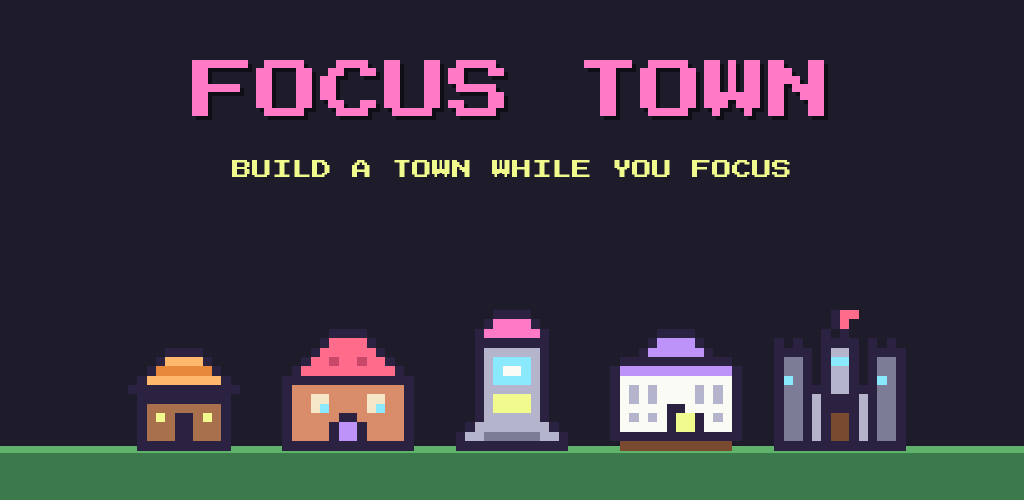
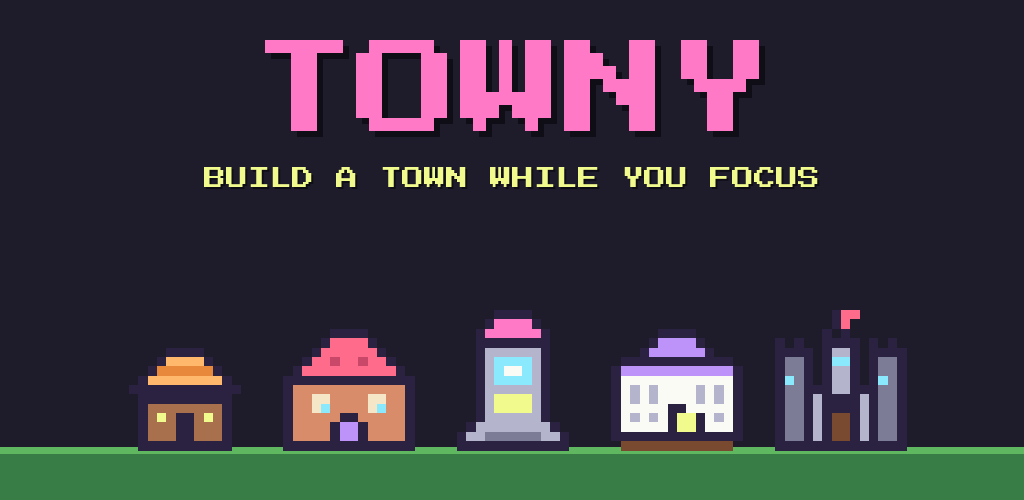
Rename the app to Towny
App name, screen title, notifications, share text, deep link scheme (towny://),
public pages, store sheet and feature graphic now use Towny. Bundle id, EAS slug
and storage keys are unchanged. Site URLs point to the renamed GitHub Pages path.

diff --git a/docs/privacy.html b/docs/privacy.html
@@ -1,5 +1,5 @@
 <!doctype html><html lang="en"><head><meta charset="utf-8"><meta name="viewport" content="width=device-width,initial-scale=1">
-<title>Privacy Policy - Focus Town</title><style>
+<title>Privacy Policy - Towny</title><style>
 :root{--bg:#1e1c2a;--panel:#2a2740;--text:#f8f8f2;--dim:#a9a5c4;--accent:#ff79c6;--gold:#f1fa8c}
 *{box-sizing:border-box}body{margin:0;background:var(--bg);color:var(--text);font:16px/1.7 -apple-system,BlinkMacSystemFont,"Segoe UI","Apple SD Gothic Neo","Noto Sans KR",sans-serif}
 main{max-width:760px;margin:0 auto;padding:32px 20px 80px}
@@ -12,7 +12,7 @@ table{border-collapse:collapse;width:100%;font-size:.95rem}td,th{border:1px soli
 </style></head><body><main>
 <div class="lang"><a href="#en">English</a><a href="#ko">한국어</a></div>
 <section id="en"><h1>Privacy Policy</h1><p class="meta">Effective date: October 5, 2026</p>
-<p>Focus Town ("we", "us") is a mobile focus-timer game operated by JIN CHOI. This policy explains what information the app handles and the choices you have.</p>
+<p>Towny ("we", "us") is a mobile focus-timer game operated by JIN CHOI. This policy explains what information the app handles and the choices you have.</p>
 <h2>1. Information stored on your device only</h2>
 <p>Your focus sessions (start time, length, mode, result), streaks, town, and settings are stored <b>only on your device</b>. They are not sent to us. You can erase them anytime in <i>Settings → Reset all records</i> or by uninstalling the app.</p>
 <h2>2. Information we collect (optional)</h2>
@@ -40,7 +40,7 @@ table{border-collapse:collapse;width:100%;font-size:.95rem}td,th{border:1px soli
 <h2>7. Your choices and rights</h2>
 <ul><li>Turn off data sharing anytime in <i>Settings → Privacy</i>.</li><li>Delete on-device data via <i>Settings → Reset all records</i> or by uninstalling.</li><li>Because analytics use a random ID that is not linked to your identity, we may not be able to locate your data; you can still contact us with questions or requests at [CONTACT EMAIL].</li></ul>
 <h2>8. Children</h2>
-<p>Focus Town is not directed to children under 14 and we do not knowingly collect personal information from them.</p>
+<p>Towny is not directed to children under 14 and we do not knowingly collect personal information from them.</p>
 <h2>9. Changes</h2>
 <p>If we add features that handle more data (such as group session history), we will update this policy and, where required, ask for your consent. The effective date above shows the latest version.</p>
 <h2>10. Contact</h2>
@@ -48,7 +48,7 @@ table{border-collapse:collapse;width:100%;font-size:.95rem}td,th{border:1px soli
 </section>
 <hr>
 <section id="ko"><h1>개인정보 처리방침</h1><p class="meta">시행일: 2026년 10월 5일</p>
-<p>포커스 타운(이하 "서비스")은 JIN CHOI가 운영하는 모바일 집중 타이머 게임입니다. 이 방침은 앱이 어떤 정보를 다루는지와 이용자의 선택권을 설명합니다.</p>
+<p>타우니(이하 "서비스")은 JIN CHOI가 운영하는 모바일 집중 타이머 게임입니다. 이 방침은 앱이 어떤 정보를 다루는지와 이용자의 선택권을 설명합니다.</p>
 <h2>1. 기기에만 저장되는 정보</h2>
 <p>집중 세션 기록(시작 시각, 시간, 모드, 결과), 스트릭, 마을, 설정은 <b>이용자의 기기에만</b> 저장되며 저희에게 전송되지 않습니다. <i>설정 → Reset all records</i> 또는 앱 삭제로 언제든 지울 수 있습니다.</p>
 <h2>2. 수집하는 정보 (선택)</h2>
@@ -75,11 +75,11 @@ table{border-collapse:collapse;width:100%;font-size:.95rem}td,th{border:1px soli
 <h2>7. 이용자의 선택과 권리</h2>
 <ul><li><i>설정 → Privacy</i>에서 정보 공유를 언제든 끌 수 있습니다.</li><li><i>설정 → Reset all records</i> 또는 앱 삭제로 기기 내 데이터를 삭제할 수 있습니다.</li><li>분석에는 이용자 신원과 연결되지 않는 무작위 ID를 쓰므로 특정 이용자의 데이터를 찾지 못할 수 있으나, 문의나 요청은 [CONTACT EMAIL]로 보내실 수 있습니다.</li></ul>
 <h2>8. 아동</h2>
-<p>포커스 타운은 만 14세 미만 아동을 대상으로 하지 않으며, 아동의 개인정보를 알면서 수집하지 않습니다.</p>
+<p>타우니은 만 14세 미만 아동을 대상으로 하지 않으며, 아동의 개인정보를 알면서 수집하지 않습니다.</p>
 <h2>9. 방침의 변경</h2>
 <p>그룹 세션 기록 등 더 많은 정보를 다루는 기능을 추가하면 이 방침을 갱신하고, 필요한 경우 동의를 받겠습니다. 최신 버전은 시행일로 확인할 수 있습니다.</p>
 <h2>10. 문의</h2>
 <p>JIN CHOI — [CONTACT EMAIL]</p>
 </section>
-<p class="meta"><a href="index.html">← Focus Town</a></p>
+<p class="meta"><a href="index.html">← Towny</a></p>
 </main></body></html>

diff --git a/docs/terms.html b/docs/terms.html
@@ -1,5 +1,5 @@
 <!doctype html><html lang="en"><head><meta charset="utf-8"><meta name="viewport" content="width=device-width,initial-scale=1">
-<title>Terms of Service - Focus Town</title><style>
+<title>Terms of Service - Towny</title><style>
 :root{--bg:#1e1c2a;--panel:#2a2740;--text:#f8f8f2;--dim:#a9a5c4;--accent:#ff79c6;--gold:#f1fa8c}
 *{box-sizing:border-box}body{margin:0;background:var(--bg);color:var(--text);font:16px/1.7 -apple-system,BlinkMacSystemFont,"Segoe UI","Apple SD Gothic Neo","Noto Sans KR",sans-serif}
 main{max-width:760px;margin:0 auto;padding:32px 20px 80px}
@@ -12,7 +12,7 @@ table{border-collapse:collapse;width:100%;font-size:.95rem}td,th{border:1px soli
 </style></head><body><main>
 <div class="lang"><a href="#en">English</a><a href="#ko">한국어</a></div>
 <section id="en"><h1>Terms of Service</h1><p class="meta">Effective date: October 5, 2026</p>
-<p>By downloading or using Focus Town (the "App"), operated by JIN CHOI, you agree to these Terms. If you do not agree, please do not use the App.</p>
+<p>By downloading or using Towny (the "App"), operated by JIN CHOI, you agree to these Terms. If you do not agree, please do not use the App.</p>
 <h2>1. License</h2><p>We grant you a personal, non-exclusive, non-transferable, revocable license to use the App on your devices for personal, non-commercial purposes.</p>
 <h2>2. Acceptable use</h2><ul><li>Do not copy, modify, reverse engineer, or resell the App, except as permitted by law.</li><li>Do not interfere with the App or its services, or use it to break any law.</li></ul>
 <h2>3. How the App works</h2><p>The App is a focus timer game. It detects when you leave the App during a session; this is a game mechanic and not a guarantee that you will stay focused or that other apps are blocked. Records are stored on your device; if you delete the App or reset records, they cannot be recovered.</p>
@@ -26,7 +26,7 @@ table{border-collapse:collapse;width:100%;font-size:.95rem}td,th{border:1px soli
 </section>
 <hr>
 <section id="ko"><h1>이용약관</h1><p class="meta">시행일: 2026년 10월 5일</p>
-<p>JIN CHOI가 운영하는 포커스 타운(이하 "앱")을 내려받거나 사용하면 이 약관에 동의한 것으로 봅니다. 동의하지 않으면 앱을 사용하지 마세요.</p>
+<p>JIN CHOI가 운영하는 타우니(이하 "앱")을 내려받거나 사용하면 이 약관에 동의한 것으로 봅니다. 동의하지 않으면 앱을 사용하지 마세요.</p>
 <h2>1. 이용 허락</h2><p>이용자의 기기에서 개인적, 비상업적 목적으로 앱을 사용할 수 있는 비독점적, 양도 불가, 철회 가능한 권리를 부여합니다.</p>
 <h2>2. 금지 행위</h2><ul><li>법이 허용하는 경우를 제외하고 앱을 복제, 수정, 역설계, 재판매하지 마세요.</li><li>앱이나 관련 서비스를 방해하거나 법을 위반하는 데 사용하지 마세요.</li></ul>
 <h2>3. 앱의 동작 방식</h2><p>앱은 집중 타이머 게임입니다. 세션 중 앱을 벗어나는 것을 감지하지만, 이는 게임 규칙일 뿐 집중을 보장하거나 다른 앱을 차단하는 기능이 아닙니다. 기록은 이용자의 기기에 저장되며, 앱 삭제나 기록 초기화 시 복구할 수 없습니다.</p>
@@ -38,5 +38,5 @@ table{border-collapse:collapse;width:100%;font-size:.95rem}td,th{border:1px soli
 <h2>9. 준거법</h2><p>이 약관은 대한민국 법을 준거법으로 합니다.</p>
 <h2>10. 문의</h2><p>JIN CHOI — [CONTACT EMAIL]</p>
 </section>
-<p class="meta"><a href="index.html">← Focus Town</a></p>
+<p class="meta"><a href="index.html">← Towny</a></p>
 </main></body></html>

diff --git a/app/src/screens/SettingsScreen.tsx b/app/src/screens/SettingsScreen.tsx
@@ -67,7 +67,7 @@ export default function SettingsScreen({ settings, onChange, onBack, onReset, on
   const confirmDelete = () => setConfirm('delete');
   const confirmReset = () => setConfirm('reset');
   const dialog = {
-    notif: { title: 'Notifications are off', text: 'Turn on notifications for Focus Town in your phone settings to get daily reminders.', ok: 'OK', cancel: null, destructive: false, run: () => {} },
+    notif: { title: 'Notifications are off', text: 'Turn on notifications for Towny in your phone settings to get daily reminders.', ok: 'OK', cancel: null, destructive: false, run: () => {} },
     signout: {
       title: 'Sign out?',
       text: 'You can sign in again anytime with your email. Friends and group sessions need you to be signed in.',
@@ -77,7 +77,7 @@ export default function SettingsScreen({ settings, onChange, onBack, onReset, on
       run: onSignOut,
     },
     delete: { title: 'Delete your account?', text: 'Your account, profile and friends will be permanently deleted. Records on this device stay until you reset them.', ok: 'Delete', cancel: 'Cancel', destructive: true, run: onDeleteAccount },
-    st_denied: { title: 'Screen Time is off', text: "Allow Screen Time for Focus Town in your phone's Settings to lock apps while you focus.", ok: 'Open settings', cancel: 'Not now', destructive: false, run: () => Linking.openSettings().catch(() => {}) },
+    st_denied: { title: 'Screen Time is off', text: "Allow Screen Time for Towny in your phone's Settings to lock apps while you focus.", ok: 'Open settings', cancel: 'Not now', destructive: false, run: () => Linking.openSettings().catch(() => {}) },
     st_unavailable: {
       title: Platform.OS === 'ios' ? 'Not available yet' : 'Coming to Android',
       text: Platform.OS === 'ios' ? "Locking apps needs Apple's approval for Screen Time, which this version doesn't have yet. It will switch on in a future update." : 'Locking apps while you focus is iPhone-only for now.',
@@ -147,7 +147,7 @@ export default function SettingsScreen({ settings, onChange, onBack, onReset, on
         <Card>
           <Row icon="shield" tint="#8be9fd" label="Share crash & usage data" note="Anonymous. Helps us fix bugs." right={<Switch on={settings.analytics} onPress={() => onChange({ analytics: !settings.analytics })} />} />
           <Row icon="help" tint="#f8f8f2" label="How to play" onPress={onShowHelp} chevron />
-          {SUPPORT_EMAIL ? <Row sub label="Send feedback" link onPress={() => open(`mailto:${SUPPORT_EMAIL}?subject=${encodeURIComponent(`Focus Town feedback (v${version})`)}`)} /> : null}
+          {SUPPORT_EMAIL ? <Row sub label="Send feedback" link onPress={() => open(`mailto:${SUPPORT_EMAIL}?subject=${encodeURIComponent(`Towny feedback (v${version})`)}`)} /> : null}
           <Row sub label="Privacy policy" link onPress={() => open(PRIVACY_URL)} />
           <Row sub label="Terms of service" link onPress={() => open(TERMS_URL)} />
         </Card>
@@ -156,7 +156,7 @@ export default function SettingsScreen({ settings, onChange, onBack, onReset, on
           <Sans style={styles.resetText}>Reset all records</Sans>
         </Pressable>
 
-        <Sans style={styles.about}>Focus Town v{version}</Sans>
+        <Sans style={styles.about}>Towny v{version}</Sans>
         <Sans style={styles.about}>Lo-fi music: Open Lo-Fi (CC0)</Sans>
       </ScrollView>
 

diff --git a/docs/follow.html b/docs/follow.html
@@ -1,5 +1,5 @@
 <!doctype html><html lang="en"><head><meta charset="utf-8"><meta name="viewport" content="width=device-width,initial-scale=1">
-<title>Follow me on Focus Town</title>
+<title>Follow me on Towny</title>
 <style>
 :root{--bg:#1e1c2a;--panel:#2a2740;--text:#f8f8f2;--dim:#a9a5c4;--accent:#ff79c6;--gold:#f1fa8c}
 *{box-sizing:border-box}body{margin:0;background:var(--bg);color:var(--text);font:16px/1.7 -apple-system,BlinkMacSystemFont,"Segoe UI","Apple SD Gothic Neo","Noto Sans KR",sans-serif;display:grid;place-items:center;min-height:100vh;padding:24px;text-align:center}
@@ -8,17 +8,17 @@ main{max-width:420px}h1{color:var(--accent);font-size:1.6rem;margin:.2em 0}p{col
 a.btn{display:inline-block;background:var(--accent);color:#1e1c2a;font-weight:700;text-decoration:none;padding:14px 22px;border-radius:10px;margin:6px}
 small{display:block;margin-top:22px;color:var(--dim)}
 </style></head><body><main>
-<h1>Follow me on Focus Town!</h1>
+<h1>Follow me on Towny!</h1>
 <p>Open the app and follow your friend to focus together.</p>
 <div class="code" id="code">--------</div>
-<a class="btn" id="open" href="#">Open Focus Town</a>
-<small>No app yet? Install Focus Town, then open Profile → Add friends and paste this code.<br>앱에서 <b>ME → ADD FRIENDS</b> 검색창에 위 코드를 붙여 넣으면 친구를 찾을 수 있어요.</small>
+<a class="btn" id="open" href="#">Open Towny</a>
+<small>No app yet? Install Towny, then open Profile → Add friends and paste this code.<br>앱에서 <b>ME → ADD FRIENDS</b> 검색창에 위 코드를 붙여 넣으면 친구를 찾을 수 있어요.</small>
 <script>
   var m = location.search.match(/[?&]code=([0-9A-Fa-f]{8})/);
   var code = m ? m[1].toUpperCase() : null;
   if (code) {
     document.getElementById('code').textContent = code;
-    var link = 'focustown://follow/' + code;
+    var link = 'towny://follow/' + code;
     document.getElementById('open').href = link;
     setTimeout(function () { location.href = link; }, 400); // 앱이 설치되어 있으면 바로 열린다
   } else {

diff --git a/app/src/lib/liveProgress.ts b/app/src/lib/liveProgress.ts
@@ -61,7 +61,7 @@ const cheer = (s: LiveSession) => {
 
 function normalState(s: LiveSession) {
   return {
-    title: s.kind === 'group' ? `Focus Town · Team · ${s.tag}` : `Focus Town · ${s.tag}`,
+    title: s.kind === 'group' ? `Towny · Team · ${s.tag}` : `Towny · ${s.tag}`,
     subtitle: cheer(s),
     progressBar: { date: s.endAt },
     imageName: `b_${s.buildingId}`,
@@ -71,8 +71,8 @@ function normalState(s: LiveSession) {
 
 function awayState(s: LiveSession, graceEndAt: number) {
   return s.kind === 'group'
-    ? { title: 'Focus Town · Your team misses you!', subtitle: 'Your friends are still building. Hop back soon!', progressBar: { date: graceEndAt }, imageName: 'b_ruins', dynamicIslandImageName: 'b_ruins' }
-    : { title: 'Focus Town · Psst, come back!', subtitle: 'Your tiny builders miss you! Hurry back!', progressBar: { date: graceEndAt }, imageName: 'b_ruins', dynamicIslandImageName: 'b_ruins' };
+    ? { title: 'Towny · Your team misses you!', subtitle: 'Your friends are still building. Hop back soon!', progressBar: { date: graceEndAt }, imageName: 'b_ruins', dynamicIslandImageName: 'b_ruins' }
+    : { title: 'Towny · Psst, come back!', subtitle: 'Your tiny builders miss you! Hurry back!', progressBar: { date: graceEndAt }, imageName: 'b_ruins', dynamicIslandImageName: 'b_ruins' };
 }
 
 function render(state: ReturnType<typeof normalState>, endAt: number, timeoutMs: number) {

diff --git a/docs/index.html b/docs/index.html
@@ -1,4 +1,4 @@
-<!doctype html><html lang="en"><head><meta charset="utf-8"><meta name="viewport" content="width=device-width,initial-scale=1"><title>Focus Town</title><style>
+<!doctype html><html lang="en"><head><meta charset="utf-8"><meta name="viewport" content="width=device-width,initial-scale=1"><title>Towny</title><style>
 :root{--bg:#1e1c2a;--panel:#2a2740;--text:#f8f8f2;--dim:#a9a5c4;--accent:#ff79c6;--gold:#f1fa8c}
 *{box-sizing:border-box}body{margin:0;background:var(--bg);color:var(--text);font:16px/1.7 -apple-system,BlinkMacSystemFont,"Segoe UI","Apple SD Gothic Neo","Noto Sans KR",sans-serif}
 main{max-width:760px;margin:0 auto;padding:32px 20px 80px}
@@ -9,5 +9,5 @@ a{color:var(--accent)}ul{padding-left:1.2em}li{margin:.35em 0}
 hr{border:0;border-top:2px solid var(--panel);margin:56px 0}
 table{border-collapse:collapse;width:100%;font-size:.95rem}td,th{border:1px solid var(--panel);padding:8px 10px;text-align:left;vertical-align:top}th{color:var(--gold)}
 </style></head><body><main>
-<h1>Focus Town</h1><p>Build a pixel town while you focus. Stay in the app, grow your town, keep your streak.</p>
+<h1>Towny</h1><p>Build a pixel town while you focus. Stay in the app, grow your town, keep your streak.</p>
 <ul><li><a href="privacy.html">Privacy Policy / 개인정보 처리방침</a></li><li><a href="terms.html">Terms of Service / 이용약관</a></li></ul></main></body></html>

diff --git a/app/src/lib/social.ts b/app/src/lib/social.ts
@@ -46,11 +46,11 @@ export const unfollowUser = (id: string) => call<null>('unfollow_user', { p_user
 export const isFriend = (p: Person) => p.i_follow && p.follows_me;
 
 // ── 팔로우 링크 ──
-const SITE = 'https://c5551051011.github.io/focus-town';
+const SITE = 'https://c5551051011.github.io/towny';
 export const followLink = (code: string) => `${SITE}/follow.html?code=${code}`;
-export const followAppLink = (code: string) => `focustown://follow/${code}`;
+export const followAppLink = (code: string) => `towny://follow/${code}`;
 
-// 붙여넣은 글에서 친구 코드(8자리)를 뽑는다: 링크 전체, focustown://follow/CODE, 코드만 모두 허용
+// 붙여넣은 글에서 친구 코드(8자리)를 뽑는다: 링크 전체, towny://follow/CODE(예전 focustown:// 링크 포함), 코드만 모두 허용
 export function parseFollowCode(input: string): string | null {
   const m = input.trim().match(/(?:code=|follow\/|^)([0-9A-Fa-f]{8})\b/);
   return m ? m[1].toUpperCase() : null;

diff --git a/app/src/lib/notifications.ts b/app/src/lib/notifications.ts
@@ -14,7 +14,7 @@ Notifications.setNotificationHandler({
 // Android 13+ 에서는 알림 채널이 있어야 권한 팝업이 뜬다
 if (Platform.OS === 'android') {
   Notifications.setNotificationChannelAsync('default', {
-    name: 'Focus Town',
+    name: 'Towny',
     importance: Notifications.AndroidImportance.HIGH,
   }).catch(() => {});
 }
@@ -90,7 +90,7 @@ export async function syncReminders(opts: { enabled: boolean; hour: number; minu
           : 'Your town is waiting. Ready to focus?';
       await Notifications.scheduleNotificationAsync({
         identifier: reminderId(i),
-        content: { title: 'Focus Town', body },
+        content: { title: 'Towny', body },
         trigger: { type: Notifications.SchedulableTriggerInputTypes.DATE, date: when },
       });
     }

diff --git a/app/src/screens/FriendsScreens.tsx b/app/src/screens/FriendsScreens.tsx
@@ -60,7 +60,7 @@ export function AddFriendsScreen({ social, initialQuery, onBack, onChanged }: Co
 
   const share = () => {
     if (!code) return;
-    Share.share({ message: `Follow me on Focus Town and let's focus together!\n${followLink(code)}\n\nFriend code: ${code}` }).catch(() => {});
+    Share.share({ message: `Follow me on Towny and let's focus together!\n${followLink(code)}\n\nFriend code: ${code}` }).catch(() => {});
   };
 
   const shown = searching ? results : null;

diff --git a/app/App.tsx b/app/App.tsx
@@ -161,7 +161,7 @@ export default function App() {
     })();
   }, [loaded, userId]);
 
-  // 친구 팔로우 링크(focustown://follow/CODE 또는 웹 링크)로 앱이 열리면 친구 추가 화면으로 간다
+  // 친구 팔로우 링크(towny://follow/CODE 또는 웹 링크)로 앱이 열리면 친구 추가 화면으로 간다
   useEffect(() => {
     const open = (url: string | null) => {
       const code = url ? parseFollowCode(url) : null;

diff --git a/app/src/config.ts b/app/src/config.ts
@@ -4,7 +4,7 @@
 export const SUPPORT_EMAIL = ''; // 문의/피드백 메일 주소 (비어 있으면 피드백 버튼이 숨겨진다)
 
 // GitHub Pages(docs/ 폴더)에 게시되는 문서 주소
-const SITE = 'https://c5551051011.github.io/focus-town';
+const SITE = 'https://c5551051011.github.io/towny';
 export const PRIVACY_URL = `${SITE}/privacy.html`;
 export const TERMS_URL = `${SITE}/terms.html`;
 

diff --git a/app/src/screens/SetupScreen.tsx b/app/src/screens/SetupScreen.tsx
@@ -55,7 +55,7 @@ export default function SetupScreen({ todayMinutes, settings, onChange: update, 
   return (
     <ScrollView contentContainerStyle={styles.wrap}>
       <View style={styles.top}>
-        <ScreenTitle title="FOCUS TOWN" center />
+        <ScreenTitle title="TOWNY" center />
         {dailyGoal > 0 ? (
           <View style={styles.goalPill}>
             <View style={styles.goalTrack}>
